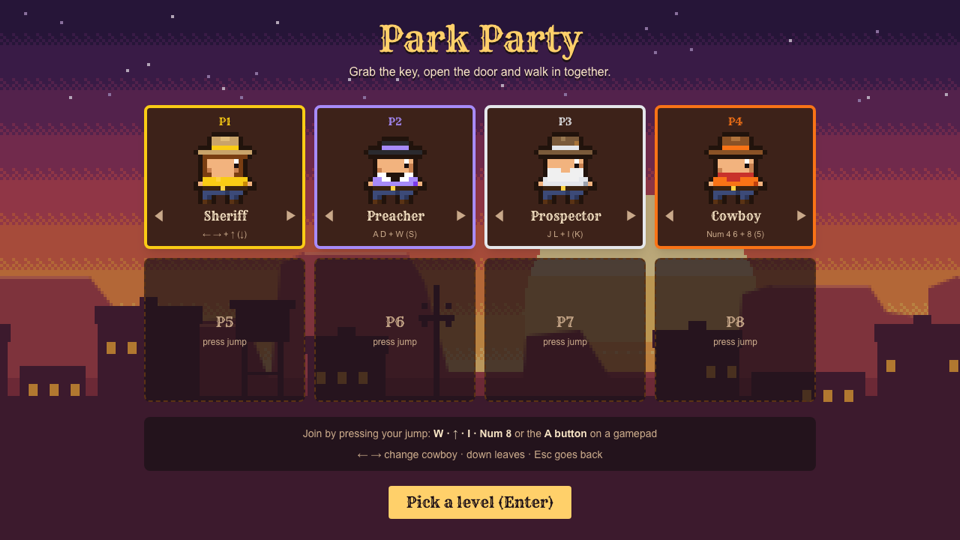
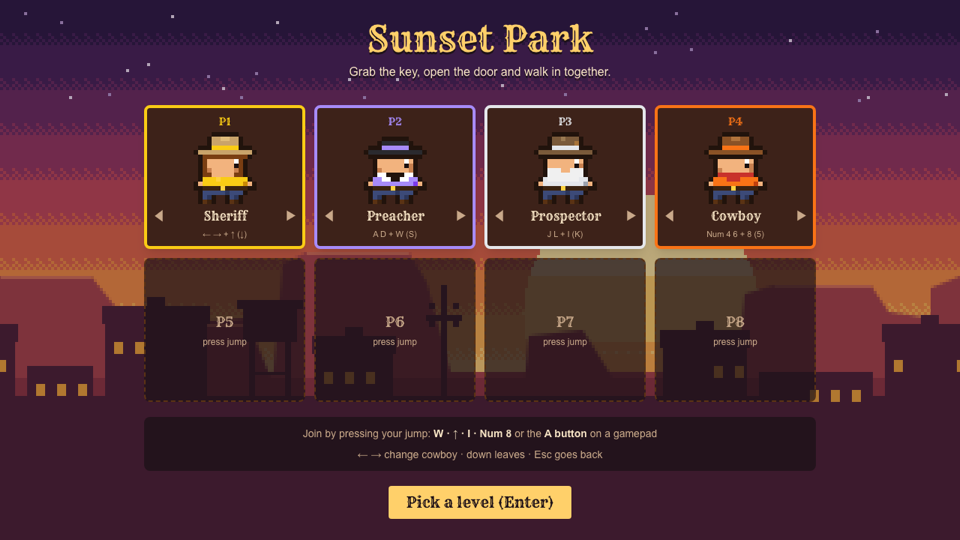
feat: o jogo agora se chama Sunset Park
Título da tela inicial, <title>, fase 15-4, README (título e screenshots),
package.json, banco (park_party -> sunset_park) e chave do mudo no navegador
(lê a antiga como fallback). Para quem já tem o banco local:
ALTER DATABASE park_party RENAME TO sunset_park e atualize o .env.

diff --git a/e2e/play.spec.ts b/e2e/play.spec.ts
@@ -2,7 +2,7 @@ import { expect, test, type Page } from "@playwright/test";
 
 const player = (page: Page, i: number) =>
   page.evaluate((i) => {
-    const p = window.__parkParty!.world.players[i];
+    const p = window.__sunsetPark!.world.players[i];
     return { x: p.x, y: p.y, onGround: p.onGround };
   }, i);
 
@@ -11,7 +11,7 @@ test("lista de fases sem lobby abre a fase 1-1 com 2 jogadores e o teclado contr
   await page.getByRole("link", { name: /^1-1/ }).click();
   await expect(page).toHaveURL(/\/play\/1-1\?players=2/);
   await expect(page.getByTestId("game-canvas")).toBeVisible();
-  await page.waitForFunction(() => window.__parkParty?.world.players.every((p) => p.onGround));
+  await page.waitForFunction(() => window.__sunsetPark?.world.players.every((p) => p.onGround));
 
   const p1 = await player(page, 0);
   const p2 = await player(page, 1);
@@ -30,7 +30,7 @@ test("lista de fases sem lobby abre a fase 1-1 com 2 jogadores e o teclado contr
 
   // R reinicia todos
   await page.keyboard.press("KeyR");
-  await page.waitForFunction(() => window.__parkParty!.world.resets === 1);
+  await page.waitForFunction(() => window.__sunsetPark!.world.resets === 1);
   expect((await player(page, 0)).x).toBeCloseTo(p1.x, 0);
 });
 
@@ -53,7 +53,7 @@ test("título → lobby: cada um entra com o próprio pulo, escolhe o cowboy e j
   await expect(page).toHaveURL(/\/levels\?team=k1:2,k0:1/);
   await page.getByRole("link", { name: /^1-1/ }).click();
   await expect(page).toHaveURL(/\/play\/1-1\?team=k1:2,k0:1/);
-  await page.waitForFunction(() => window.__parkParty?.world.players.every((p) => p.onGround));
+  await page.waitForFunction(() => window.__sunsetPark?.world.players.every((p) => p.onGround));
 
   // a seta agora comanda o J1 (só ela), e o W o J2
   const before = await player(page, 0);

diff --git a/src/components/Game.tsx b/src/components/Game.tsx
@@ -28,7 +28,7 @@ type Props = {
 
 declare global {
   interface Window {
-    __parkParty?: { world: World };
+    __sunsetPark?: { world: World };
   }
 }
 
@@ -58,7 +58,7 @@ export default function Game({ levelId, name, def, team, menuHref, nextHref, bes
     ctx.setTransform(SCALE, 0, 0, SCALE, 0, 0);
 
     const world = createWorld(parseLevel(def), playerCount);
-    window.__parkParty = { world };
+    window.__sunsetPark = { world };
     const keyboard = createKeyboard(window);
     const devices = team.map((s) => s.devices);
     const looks = team.map((s) => s.cowboy);
@@ -120,7 +120,7 @@ export default function Game({ levelId, name, def, team, menuHref, nextHref, bes
       cancelAnimationFrame(raf);
       keyboard.dispose();
       window.removeEventListener("keydown", onKey);
-      delete window.__parkParty;
+      delete window.__sunsetPark;
     };
   }, [def, team, playerCount, levelId, menuHref, nextHref, router]);
 

diff --git a/src/game/audio.ts b/src/game/audio.ts
@@ -74,7 +74,9 @@ export const soundLength = (notes: Note[]) => {
   return end;
 };
 
-const MUTE_KEY = "park-party:muted";
+const MUTE_KEY = "sunset-park:muted";
+/** Chave antiga (antes de o jogo se chamar Sunset Park). */
+const OLD_MUTE_KEY = "park-party:muted";
 /** Intervalo mínimo entre repetições do mesmo som (evita metralhar em quadros seguidos). */
 const MIN_GAP = 0.05;
 
@@ -96,7 +98,7 @@ export function createAudio(): Audio {
   // depois do gesto, o contexto pode levar alguns ms para sair de "suspended"; notas agendadas tocam ao retomar
   let unlocked = false;
   try {
-    muted = localStorage.getItem(MUTE_KEY) === "1";
+    muted = (localStorage.getItem(MUTE_KEY) ?? localStorage.getItem(OLD_MUTE_KEY)) === "1";
   } catch {}
 
   const ensure = () => {

diff --git a/src/components/Lobby.tsx b/src/components/Lobby.tsx
@@ -134,7 +134,7 @@ export default function Lobby() {
         className="absolute inset-0 h-full w-full object-cover opacity-70 [image-rendering:pixelated]"
       />
       <div className="relative text-center drop-shadow-[0_3px_0_#1d1118]">
-        <h1 className={`font-western text-gold ${phase === "title" ? "text-7xl sm:text-8xl" : "text-5xl"}`}>Park Party</h1>
+        <h1 className={`font-western text-gold ${phase === "title" ? "text-7xl sm:text-8xl" : "text-5xl"}`}>Sunset Park</h1>
         <p className="mt-2 text-sand">Grab the key, open the door and walk in together.</p>
       </div>
 

diff --git a/src/game/levels.hard.test.ts b/src/game/levels.hard.test.ts
@@ -703,7 +703,7 @@ describe("fases difíceis", () => {
     expect(w.resets).toBe(0);
   });
 
-  it("15-4: Park Party — a festa inteira", () => {
+  it("15-4: Sunset Park — a festa inteira", () => {
     const w = createWorld2("15-4");
     const [a, b] = w.players;
     solo(w, [0, 1], () => w.players.every((p) => p.x > 16 * TILE && p.onGround), 3000);

diff --git a/e2e/smoke.spec.ts b/e2e/smoke.spec.ts
@@ -2,5 +2,5 @@ import { expect, test } from "@playwright/test";
 
 test("home renderiza o título", async ({ page }) => {
   await page.goto("/");
-  await expect(page.getByRole("heading", { name: "Park Party" })).toBeVisible();
+  await expect(page.getByRole("heading", { name: "Sunset Park" })).toBeVisible();
 });

diff --git a/src/game/levels.ts b/src/game/levels.ts
@@ -1454,7 +1454,7 @@ const WORLD_15: LevelDef[] = [
   // 15-4: a festa inteira — caixa de todos, revezamento, cores, pistões, portal de todos, ponte que
   // cai, esmagador e elevador de todos
   build(
-    "Park Party",
+    "Sunset Park",
     106,
     ROWS + 1,
     (g) => {

diff --git a/src/app/layout.tsx b/src/app/layout.tsx
@@ -20,7 +20,7 @@ const rye = Rye({
 });
 
 export const metadata: Metadata = {
-  title: "Park Party",
+  title: "Sunset Park",
   description: "A Wild West co-op platformer in the browser for 2 to 8 players.",
 };
 

diff --git a/README.md b/README.md
@@ -1,6 +1,6 @@
 <div align="center">
 
-<h1><picture><source media="(prefers-color-scheme: dark)" srcset="docs/readme/title-park-party-dark.png"><img src="docs/readme/title-park-party-light.png" alt="Park Party" height="90"></picture></h1>
+<h1><picture><source media="(prefers-color-scheme: dark)" srcset="docs/readme/title-sunset-park-dark.png"><img src="docs/readme/title-sunset-park-light.png" alt="Sunset Park" height="90"></picture></h1>
 
 **A Wild West co-op platformer for 2 to 8 players: one keyboard plus controllers.**
 Grab the key, open the saloon and walk in together — nobody makes it alone.
@@ -13,7 +13,7 @@ Grab the key, open the saloon and walk in together — nobody makes it alone.
 
 ---
 
-Park Party is a browser game inspired by **PICO PARK**: every level is a puzzle that can only
+Sunset Park is a browser game inspired by **PICO PARK**: every level is a puzzle that can only
 be solved as a team. One player climbs on another's shoulders, everyone pushes the same crate,
 the rope tying the group together drags whoever falls behind. If one dies, everyone restarts.
 
@@ -66,7 +66,7 @@ Every player picks one in the lobby before the game starts.
     <td><b>Up to 8 players</b> — players 5–8 start on the heads of players 1–4.</td>
   </tr>
   <tr>
-    <td><img src="docs/screenshots/title.png" alt="Title screen: Park Party in western lettering over a pixel art sunset and a town on the horizon, with the prompt to press any key"></td>
+    <td><img src="docs/screenshots/title.png" alt="Title screen: Sunset Park in western lettering over a pixel art sunset and a town on the horizon, with the prompt to press any key"></td>
     <td><img src="docs/screenshots/lobby.png" alt="Lobby with four cards filled (the Sheriff, the Preacher, the Prospector and the Cowboy) and four empty slots waiting for players"></td>
   </tr>
   <tr>
@@ -97,7 +97,7 @@ Every player picks one in the lobby before the game starts.
 | 10 | Colors | Colored crates |
 | 11 | Blackout | The lights go out periodically |
 | 12 | Size | Shrinking and growing |
-| 13–15 | Mix · Challenge · Grand finale | Everything at once, ending with level 15-4 "Park Party" |
+| 13–15 | Mix · Challenge · Grand finale | Everything at once, ending with level 15-4 "Sunset Park" |
 | 16 | Gold rush | Long levels in the rhythm of PICO PARK 2: caged key, countdown buttons and bridges that only exist while someone holds the button |
 
 Levels 3 and 4 of each world are the hard ones: they chain several sections together and mix

diff --git a/PROGRESS.md b/PROGRESS.md
@@ -50,7 +50,7 @@ e não são extraídas nem copiadas. Cada mundo reimplementa uma mecânica a par
 | 12 | Escala (`ScaleSwitch`); maioria pendente | verificado | 09-blackout-scale |
 | 13 | Mistura: mecânicas anteriores combinadas | verificado | — |
 | 14 | Desafio: combinações mais longas | verificado | — |
-| 15 | Grande final: fases longas que encadeiam quase tudo (15-4 "Park Party") | verificado | — |
+| 15 | Grande final: fases longas que encadeiam quase tudo (15-4 "Sunset Park") | verificado | — |
 
 ### Dificuldade
 

diff --git a/LOOP.md b/LOOP.md
@@ -31,7 +31,7 @@ Stack fixa (não trocar sem perguntar ao Carlos):
   de fase) nem código decompilado. Reimplemente a partir do comportamento
   observado, com arte e áudio próprios (formas geométricas simples bastam).
 - O projeto não usa o nome "Pico Park" nem a marca na UI; nome de trabalho:
-  **"Park Party"**.
+  **"Sunset Park"**.
 - Não execute ações destrutivas fora deste repositório.
 
 ## Estado do loop
